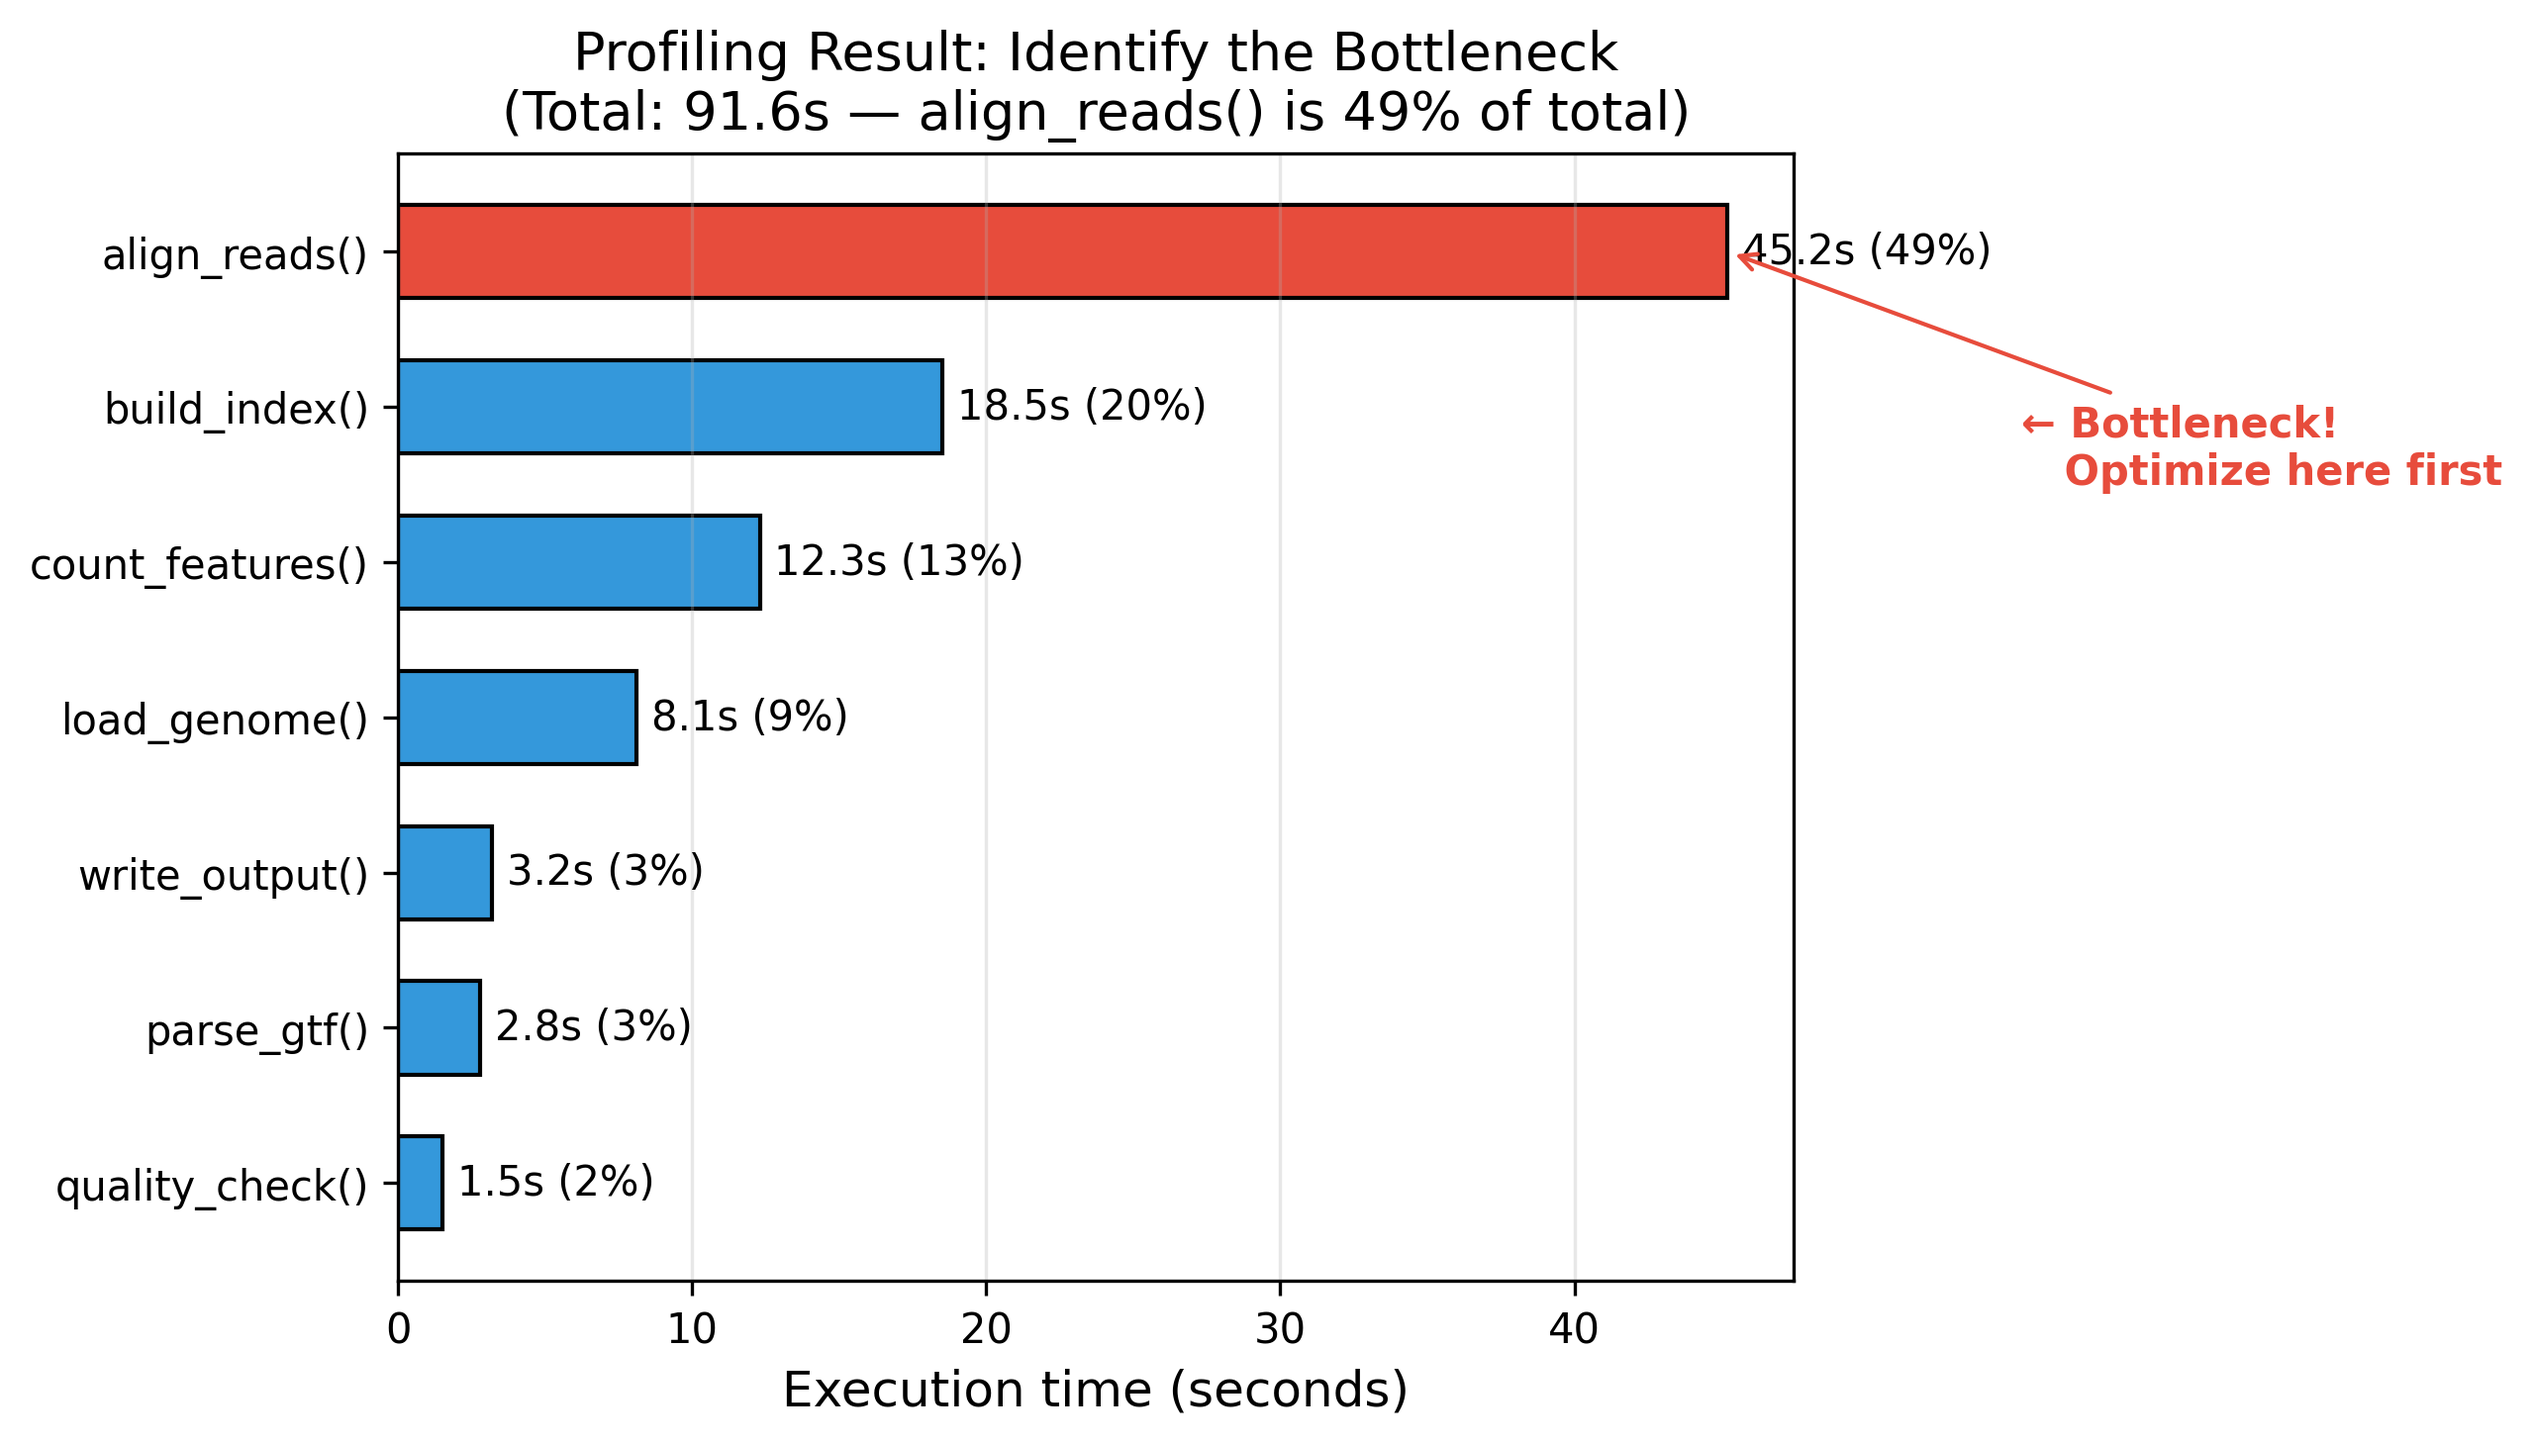
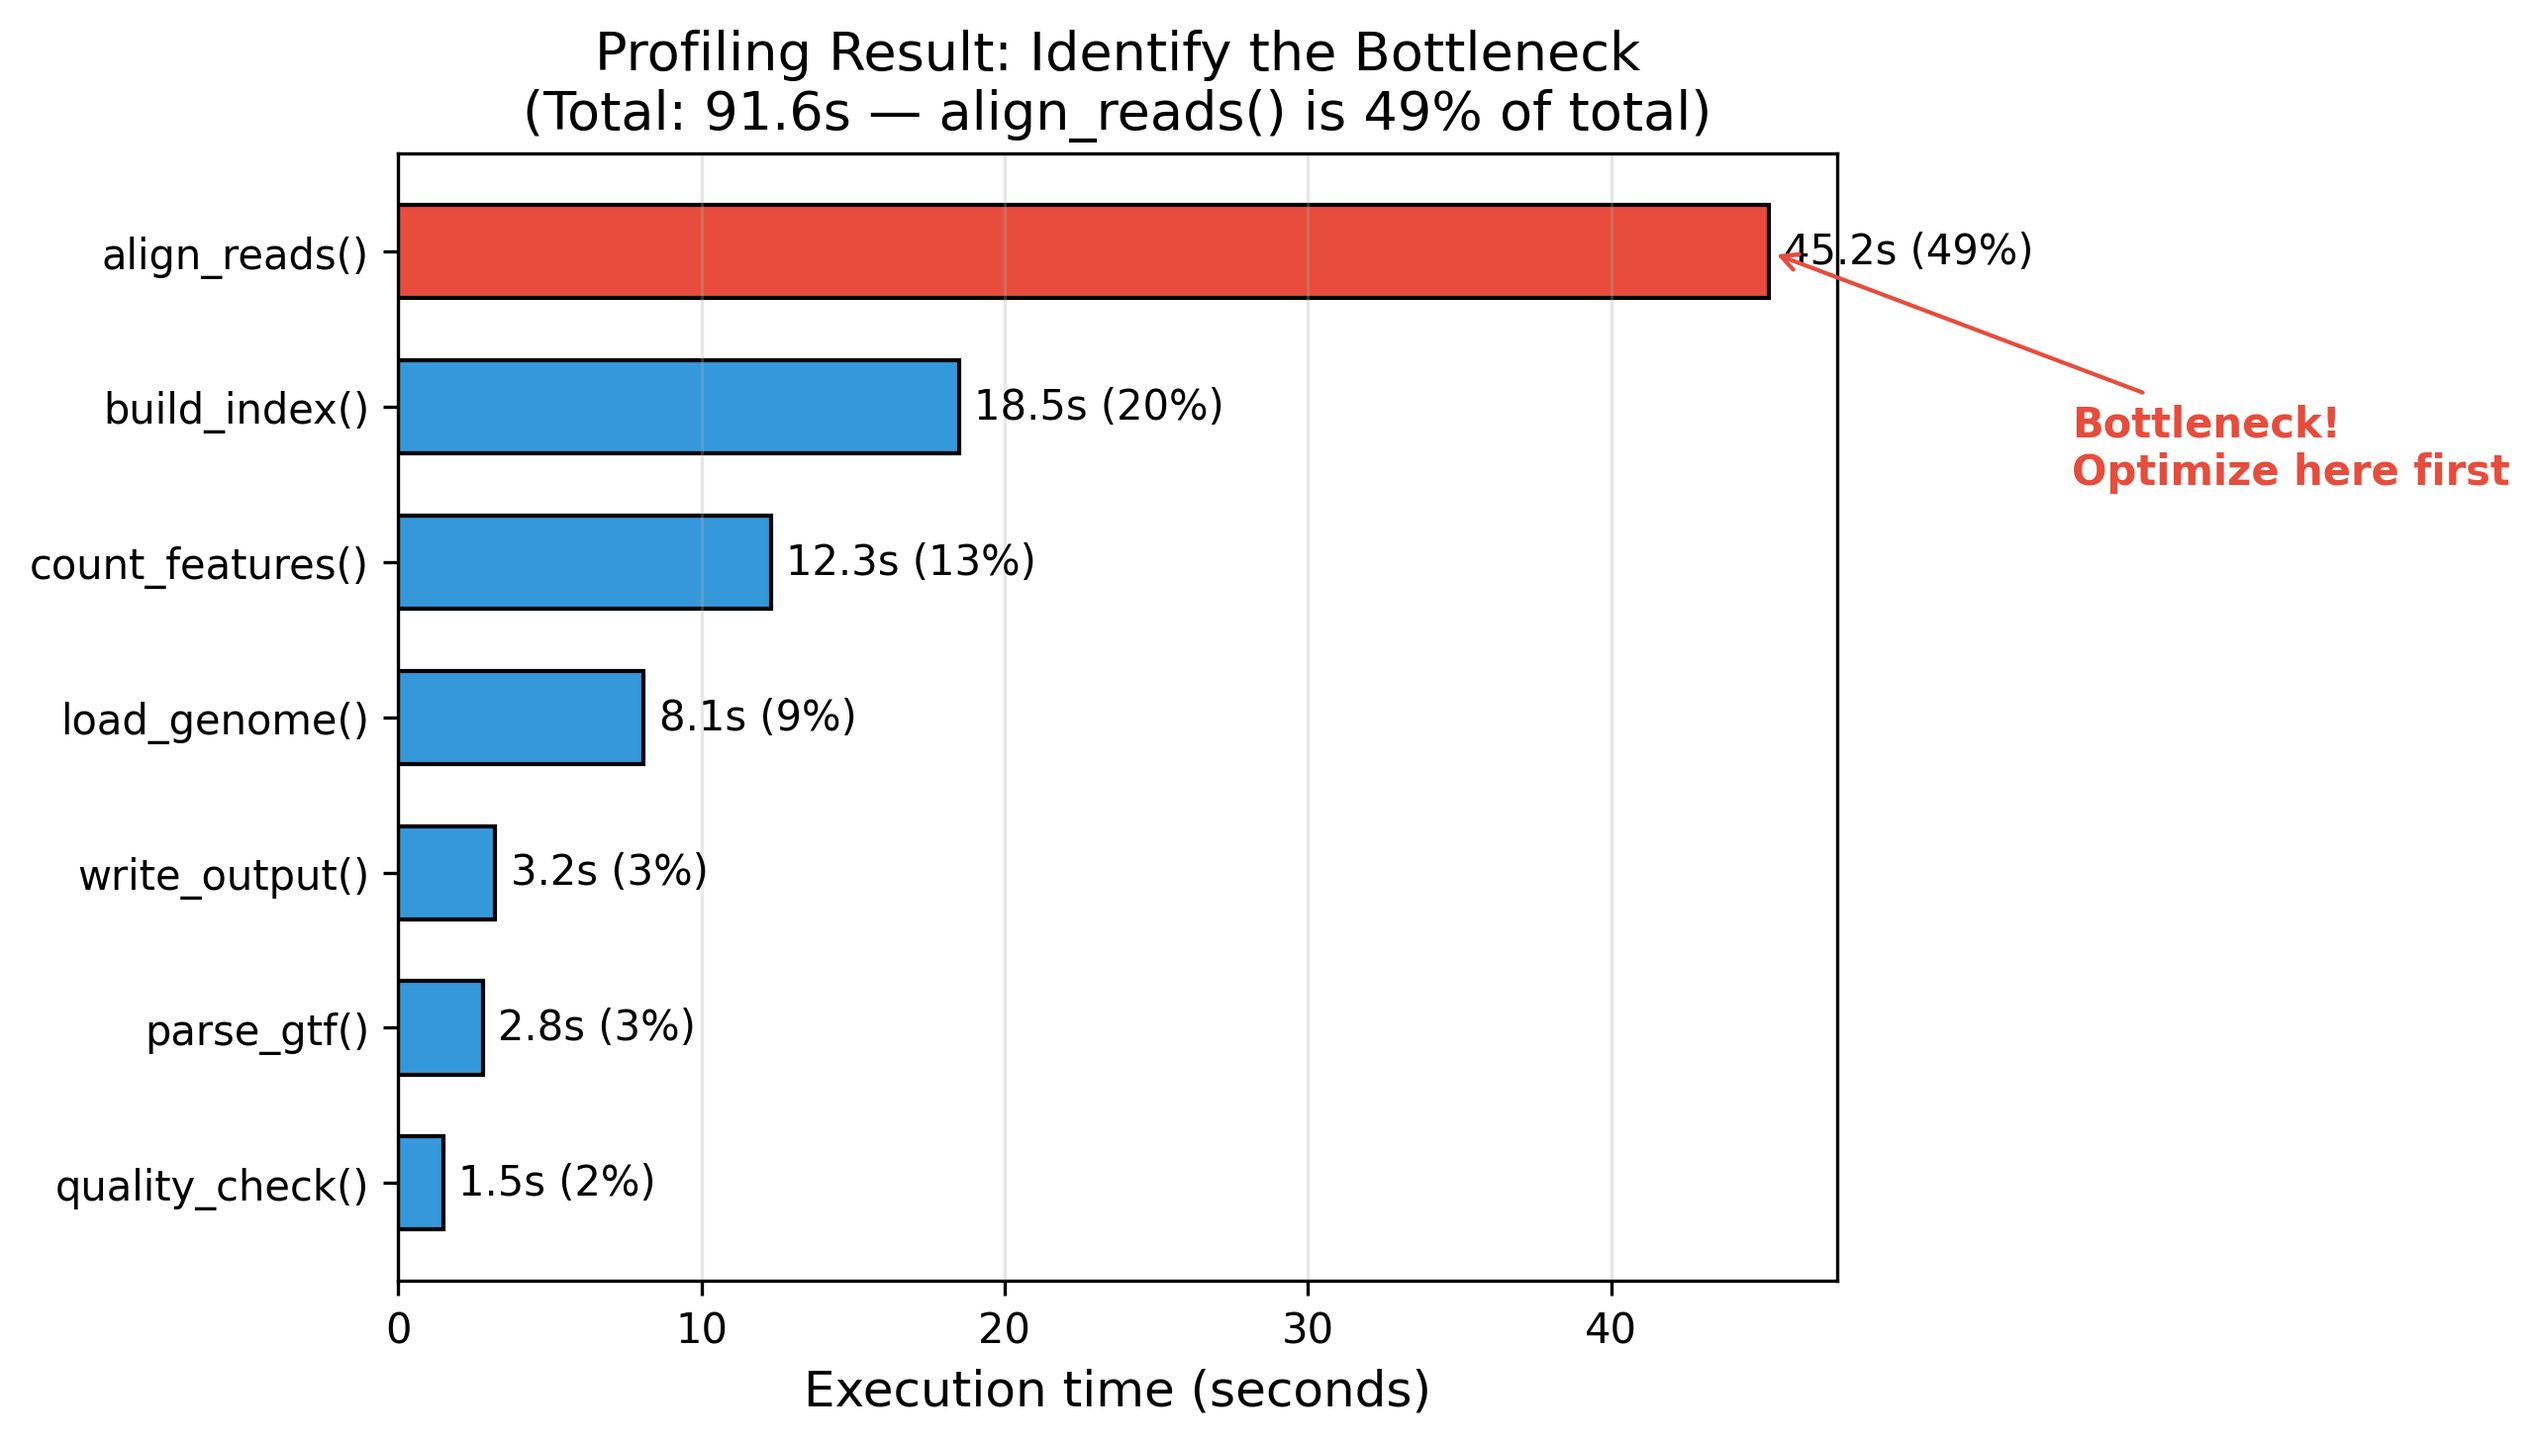
§17 図の修正: プロファイリング図の矢印文字除去、Amdahl図のアノテーション位置調整

diff --git a/scripts/ch17/plot_profiling.py b/scripts/ch17/plot_profiling.py
@@ -57,7 +57,7 @@ def plot_profiling_result(output_path: Path | None = None) -> plt.Figure:
 
     # ボトルネックにラベル
     ax.annotate(
-        "← Bottleneck!\n   Optimize here first",
+        "Bottleneck!\nOptimize here first",
         xy=(times[0], 0),
         xytext=(times[0] + 10, 1.5),
         fontsize=10,

diff --git a/scripts/ch17/plot_amdahl.py b/scripts/ch17/plot_amdahl.py
@@ -46,7 +46,7 @@ def plot_amdahl(output_path: Path | None = None) -> plt.Figure:
     ax.annotate(
         "p=50% → max 2x\nregardless of cores",
         xy=(50, 2.0),
-        xytext=(35, 8),
+        xytext=(35, 6),
         fontsize=9,
         arrowprops=dict(arrowstyle="->", color="#e74c3c"),
         color="#e74c3c",
